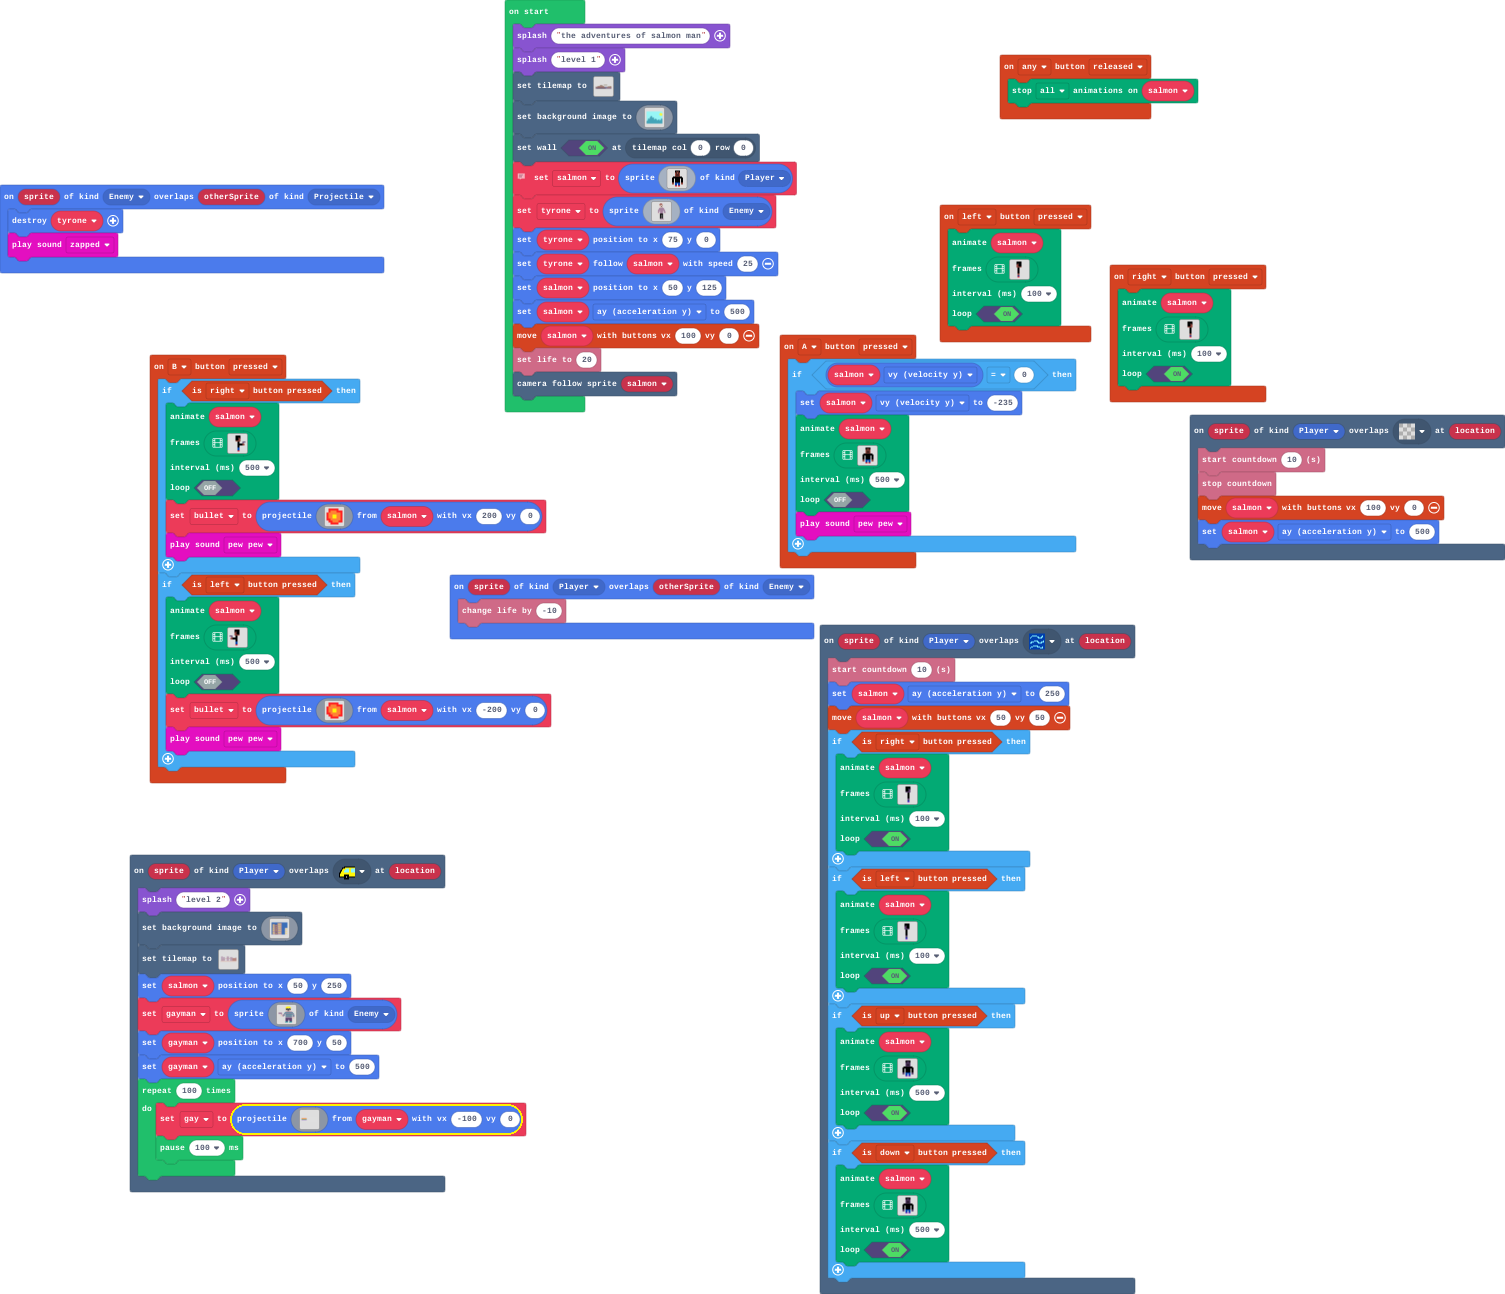
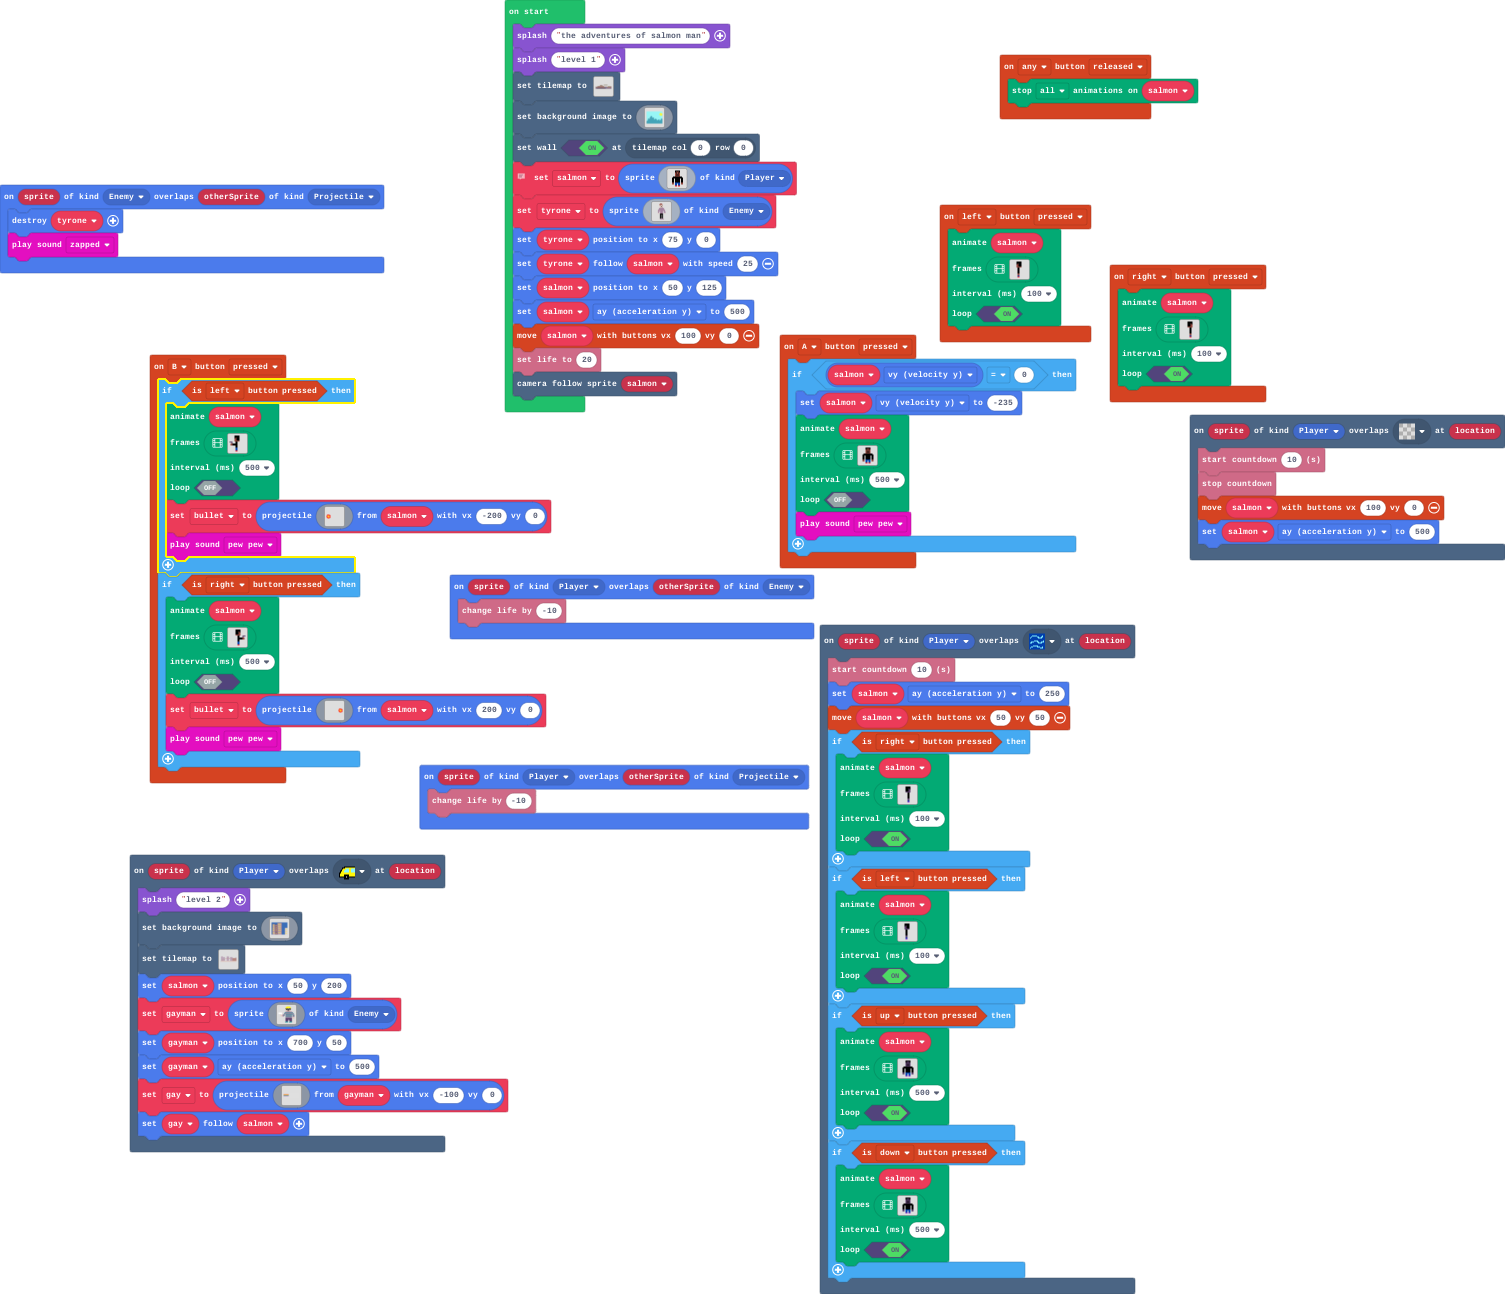
Update main.blocks, main.ts, tilemap.g.jres, tilemap.g.ts

diff --git a/main.ts b/main.ts
@@ -107,42 +107,6 @@ scene.onOverlapTile(SpriteKind.Player, assets.tile`myTile0`, function (sprite, l
     }
 })
 controller.B.onEvent(ControllerButtonEvent.Pressed, function () {
-    if (controller.right.isPressed()) {
-        animation.runImageAnimation(
-        salmon,
-        [img`
-            . . . . . . f f f f f . . . . . 
-            . . . . . . f f f f f . . . . . 
-            . . . . . . f f f e f . . . . . 
-            . . . . . . f f f e e . . . . . 
-            . . . . . . f f f e e . . . . . 
-            . . . . . . e e e e e . . . . . 
-            . . . . . . . . f f . . . c c c 
-            . . . . . . . . f f . . . c . . 
-            . . . . . . . . f f f f f e e . 
-            . . . . . . . . f f f f f e e . 
-            . . . . . . . . f f . . . . . . 
-            . . . . . . . . f f . . . . . . 
-            . . . . . . . . 8 8 . . . . . . 
-            . . . . . . . . 8 8 . . . . . . 
-            . . . . . . . . 8 8 . . . . . . 
-            . . . . . . . . 2 2 . . . . . . 
-            `],
-        500,
-        false
-        )
-        bullet = sprites.createProjectileFromSprite(img`
-            . 2 2 2 2 2 . . 
-            . 2 4 4 4 2 2 2 
-            2 4 4 4 4 4 4 2 
-            2 4 4 5 5 4 4 2 
-            2 4 4 5 5 4 4 2 
-            2 2 4 4 4 4 4 2 
-            . 2 2 4 4 4 2 2 
-            . . 2 2 2 2 . . 
-            `, salmon, 200, 0)
-        music.pewPew.play()
-    }
     if (controller.left.isPressed()) {
         animation.runImageAnimation(
         salmon,
@@ -168,15 +132,51 @@ controller.B.onEvent(ControllerButtonEvent.Pressed, function () {
         false
         )
         bullet = sprites.createProjectileFromSprite(img`
-            . 2 2 2 2 2 . . 
-            . 2 4 4 4 2 2 2 
-            2 4 4 4 4 4 4 2 
-            2 4 4 5 5 4 4 2 
-            2 4 4 5 5 4 4 2 
-            2 2 4 4 4 4 4 2 
-            . 2 2 4 4 4 2 2 
-            . . 2 2 2 2 . . 
+            . 2 2 2 2 2 . . . . . . . . . . . . . . . . . . . . . . . . . . 
+            . 2 4 4 4 2 2 2 . . . . . . . . . . . . . . . . . . . . . . . . 
+            2 4 4 4 4 4 4 2 . . . . . . . . . . . . . . . . . . . . . . . . 
+            2 4 4 5 5 4 4 2 . . . . . . . . . . . . . . . . . . . . . . . . 
+            2 4 4 5 5 4 4 2 . . . . . . . . . . . . . . . . . . . . . . . . 
+            2 2 4 4 4 4 4 2 . . . . . . . . . . . . . . . . . . . . . . . . 
+            . 2 2 4 4 4 2 2 . . . . . . . . . . . . . . . . . . . . . . . . 
+            . . 2 2 2 2 . . . . . . . . . . . . . . . . . . . . . . . . . . 
             `, salmon, -200, 0)
+        music.pewPew.play()
+    }
+    if (controller.right.isPressed()) {
+        animation.runImageAnimation(
+        salmon,
+        [img`
+            . . . . . . f f f f f . . . . . 
+            . . . . . . f f f f f . . . . . 
+            . . . . . . f f f e f . . . . . 
+            . . . . . . f f f e e . . . . . 
+            . . . . . . f f f e e . . . . . 
+            . . . . . . e e e e e . . . . . 
+            . . . . . . . . f f . . . c c c 
+            . . . . . . . . f f . . . c . . 
+            . . . . . . . . f f f f f e e . 
+            . . . . . . . . f f f f f e e . 
+            . . . . . . . . f f . . . . . . 
+            . . . . . . . . f f . . . . . . 
+            . . . . . . . . 8 8 . . . . . . 
+            . . . . . . . . 8 8 . . . . . . 
+            . . . . . . . . 8 8 . . . . . . 
+            . . . . . . . . 2 2 . . . . . . 
+            `],
+        500,
+        false
+        )
+        bullet = sprites.createProjectileFromSprite(img`
+            . . . . . . . . . . . . . . . . . . . . . . . . . 2 2 2 2 2 . . 
+            . . . . . . . . . . . . . . . . . . . . . . . . . 2 4 4 4 2 2 2 
+            . . . . . . . . . . . . . . . . . . . . . . . . 2 4 4 4 4 4 4 2 
+            . . . . . . . . . . . . . . . . . . . . . . . . 2 4 4 5 5 4 4 2 
+            . . . . . . . . . . . . . . . . . . . . . . . . 2 4 4 5 5 4 4 2 
+            . . . . . . . . . . . . . . . . . . . . . . . . 2 2 4 4 4 4 4 2 
+            . . . . . . . . . . . . . . . . . . . . . . . . . 2 2 4 4 4 2 2 
+            . . . . . . . . . . . . . . . . . . . . . . . . . . 2 2 2 2 . . 
+            `, salmon, 200, 0)
         music.pewPew.play()
     }
 })
@@ -362,13 +362,13 @@ scene.onOverlapTile(SpriteKind.Player, assets.tile`myTile3`, function (sprite, l
[1 lines of base64/hex data omitted]
         `)
     tiles.setTilemap(tilemap`level3`)
-    salmon.setPosition(50, 250)
+    salmon.setPosition(50, 200)
     gayman = sprites.create(img`
         ................5555555.........
         ...............555555555........
         ..............555555d5555.......
         ..............5d5d5dd5dd5.......
-        ..............dffffdffffd.......
+        ..............fffffdfffff.......
         ..............df11fff11fd.......
         ..............dffffdffffd.......
         ..............ddddddddddd.......
@@ -376,10 +376,10 @@ scene.onOverlapTile(SpriteKind.Player, assets.tile`myTile3`, function (sprite, l
         ...............ddddddddd........
         ..............bbbbbbbbbbbbb.....
         .............bbbbbbbbbbbbbbbb...
-        bbbbbbb.....66666666666666666...
-        bbbbbbb....b6bbbbbbbbbbbbbbbbb..
-        bbbbbbb....b6bbbbbbbbbbbbbbbb66.
-        .....bb...bbb.666666666666666bb.
+        1111111.....66666666666666666...
+        1111111....b6bbbbbbbbbbbbbbbbb..
+        1111111....b6bbbbbbbbbbbbbbbb66.
+        .....11...bbb.666666666666666bb.
         ....ddddbb6bb.bbbbbbbbbbbbb.bbbb
         ....ddddbb6bb.6666666666666.bbbb
         ....ddddbbb6..bbbbbbbbbbbbb.6666
@@ -399,27 +399,25 @@ scene.onOverlapTile(SpriteKind.Player, assets.tile`myTile3`, function (sprite, l
         `, SpriteKind.Enemy)
     gayman.setPosition(700, 50)
     gayman.ay = 500
-    for (let index = 0; index < 100; index++) {
-        gay = sprites.createProjectileFromSprite(img`
-            ................................................
-            ................................................
-            ................................................
-            ................................................
-            ................................................
-            2222222222222222................................
-            4444444444444444................................
-            5555555555555555................................
-            7777777777777777................................
-            8888888888888888................................
-            aaaaaaaaaaaaaaaa................................
-            ................................................
-            ................................................
-            ................................................
-            ................................................
-            ................................................
-            `, gayman, -100, 0)
-        pause(100)
-    }
+    gay = sprites.createProjectileFromSprite(img`
+        ................................................
+        ................................................
+        ................................................
+        ................................................
+        ................................................
+        2222222222222222................................
+        4444444444444444................................
+        5555555555555555................................
+        7777777777777777................................
+        8888888888888888................................
+        aaaaaaaaaaaaaaaa................................
+        ................................................
+        ................................................
+        ................................................
+        ................................................
+        ................................................
+        `, gayman, -100, 0)
+    gay.follow(salmon)
 })
 sprites.onOverlap(SpriteKind.Enemy, SpriteKind.Projectile, function (sprite, otherSprite) {
     tyrone.destroy()
@@ -449,6 +447,9 @@ controller.right.onEvent(ControllerButtonEvent.Pressed, function () {
     100,
     true
     )
+})
+sprites.onOverlap(SpriteKind.Player, SpriteKind.Projectile, function (sprite, otherSprite) {
+    info.changeLifeBy(-10)
 })
 scene.onOverlapTile(SpriteKind.Player, assets.tile`transparency16`, function (sprite, location) {
     info.startCountdown(10)

diff --git a/tilemap.g.ts b/tilemap.g.ts
@@ -9,8 +9,6 @@ namespace myTiles {
     //% fixedInstance jres blockIdentity=images._tile
     export const tile4 = image.ofBuffer(hex``);
     //% fixedInstance jres blockIdentity=images._tile
-    export const tile8 = image.ofBuffer(hex``);
-    //% fixedInstance jres blockIdentity=images._tile
     export const tile1 = image.ofBuffer(hex``);
     //% fixedInstance jres blockIdentity=images._tile
     export const tile10 = image.ofBuffer(hex``);
@@ -50,25 +48,6 @@ namespace myTiles {
 . . . . . . . . . . . . . . . . 
 . . . . . . . . . . . . . . . . 
 `, [], -Infinity);
-            case "level2":
-            case "level2":return tiles.createTilemap(hex`30001000000000000000000000000000000000000000000000000000000000000000000000000000000000000000000000000000000000000000000000000000000000000000000000000000000000000000000000000000000000000000000000000000000000000000000000000000000000000000000000000000000000000000000000000000000000000000000000000000000000000000000000000000000000000000000000000000000000000000000000000000000000000000000000000000000000000000000000000000000000000000000000000000000202020202020202020200000000000000000000000000000000000000000000000000000002020202020200000000000000000000000000000000000000000000000000000000000000000000000000000000000201010101010102020000000000000000000000000000000000000000000000000000000000000000000000000000000000000000000000000000000000000000000000000000000000000000000000000000000000000000000202020202020202020202020202020202020000000000000000000000000000000000000007080000000000000002020101010101010101010101010101010101010200000000000000000000000002020202020202020202020202020001010101010101010101010101010101010101010102020404040404040402020201010101010101010101010101010501010101010101010101010101010101010101010101010103030303030101010101010101010101010101040404040604040404040404040404040404040404040404040404040404040304040404040404040404040404040404040404040604060606060606060606060606060606060606060606060606060404040404040404040404040404040404040404040606060606060606060606060606060606060606060606060606060404040404040404040404040404040404040404040404040404040404040404040404040404040404040404040404040404040404040404040404040404040404`, img`
-................................................
-................................................
-................................................
-................................................
-.........................2222222222.............
-..............222222............................
-.............222222222..........................
-................................................
-.......222222222222222222.......................
-.....222222222222222222222............2222222222
-2222.2222222222222222222222222222222222222222222
-2222.222222222222222222222222.....22222222222222
-2222.22222222222222222222222222.2222222222222222
-2222.2.........................22222222222222222
-2222...........................22222222222222222
-222222222222222222222222222222222222222222222222
-`, [myTiles.transparency16,myTiles.tile4,myTiles.tile1,myTiles.tile3,myTiles.tile8,myTiles.tile10,myTiles.tile11,myTiles.tile9,myTiles.tile12], TileScale.Sixteen);
             case "level3":
             case "level3":return tiles.createTilemap(hex`30001000000002020202020000000000000000000000000202020202020000000000000000000000000000000000000000000000000002020202020000000000000000000000000202020202020000000000000000000000000000000000000000000000000002020202020002020202020000000000000202020202020000000002020202020202000000000000000000000000000002020202020002020202020000000000000202020202020000000002020202020202000000000000000000020202000002020202020002020202020000000000000202020202020000000002020202020202000000000000000000020202000002020202020002020202020000000000000101010202010101010002020101010202010101010101010101010101000002020202020002020202020000010101000202020202020000000002020202020202010101010101010101010101000002020202020002020202020000000000000202020202020000000002020202020202010101010101010101010101000002020202020002020101010000000000000202020202020000000002020202020202010101010101010101010101000002020202020002020202020000000000000202020202020000000002020202020202010101010101010101010101000002020201010102020202020000000000000202020202020000000002020202020202010101010101010101010101000002020202020002020202020000000000000202020202020000000002020202020202010101010101010101010101000002020202020002020202020000000000000202020202020000000002020202020202010101010101010101010101040404040404040404040404040404040404040404040404040404040404040404040404040404040404040404040404030303030303030303030303030303030303030303030303030303030303030303030303030303030303030303030303030303030303030303030303030303030303030303030303030303030303030303030303030303030303030303030303`, img`
 ................................................
@@ -88,6 +67,25 @@ namespace myTiles {
 222222222222222222222222222222222222222222222222
 222222222222222222222222222222222222222222222222
 `, [myTiles.transparency16,myTiles.tile5,myTiles.tile6,myTiles.tile13,myTiles.tile14], TileScale.Sixteen);
+            case "level2":
+            case "level2":return tiles.createTilemap(hex`30001000000000000000000000000000000000000000000000000000000000000000000000000000000000000000000000000000000000000000000000000000000000000000000000000000000000000000000000000000000000000000000000000000000000000000000000000000000000000000000000000000000000000000000000000000000000000000000000000000000000000000000000000000000000000000000000000000000000000000000000000000000000000000000000000000000000000000000000000000000000000000000000000000000202020202020202020202000000000000000000000000000000000000000000000000000002020202020200000000000000000000000000000000000000000000000000000000000000000000000000000000000201010101010102020000000000000000000000000000000000000000000000000000000000000000000000000000000000000000000000000000000000000000000000000000000000000000000000000000000000000000000202020202020202020202020202020202020000000000000000000000000000050600000000000000000000000002020101010101010101010101010101010101010200000000000000000000000002020202020202020202020202020001010101010101010101010101010101010101010102020101010101010102020201010101010101010101010101010101010101010101010101010101010101010101010101010103030303030101010101010101010101010101070707070407070707070707070707070707070707070707070707070707070307070707070707070707070707070707070707070407040404040404040404040404040404040404040404040404040707070707070707070707070707070707070707070404040404040404040404040404040404040404040404040404040707070707070707070707070707070707070707070707070707070707070707070707070707070707070707070707070707070707070707070707070707070707`, img`
+................................................
+................................................
+................................................
+................................................
+.........................22222222222............
+..............222222............................
+.............222222222..........................
+................................................
+.......222222222222222222.......................
+.....222222222222222222222............2222222222
+2222.2222222222222222222222222222222222222222222
+22222222222222222222222222222.....22222222222222
+2222.22222222222222222222222222.2222222222222222
+2222.2.........................22222222222222222
+2222...........................22222222222222222
+222222222222222222222222222222222222222222222222
+`, [myTiles.transparency16,myTiles.tile4,myTiles.tile1,myTiles.tile3,myTiles.tile11,myTiles.tile9,myTiles.tile12,myTiles.tile2], TileScale.Sixteen);
         }
         return null;
     })
@@ -101,8 +99,6 @@ namespace myTiles {
             case "tile3":return tile3;
             case "myTile1":
             case "tile4":return tile4;
-            case "myTile2":
-            case "tile8":return tile8;
             case "tile1":return tile1;
             case "myTile4":
             case "tile10":return tile10;
